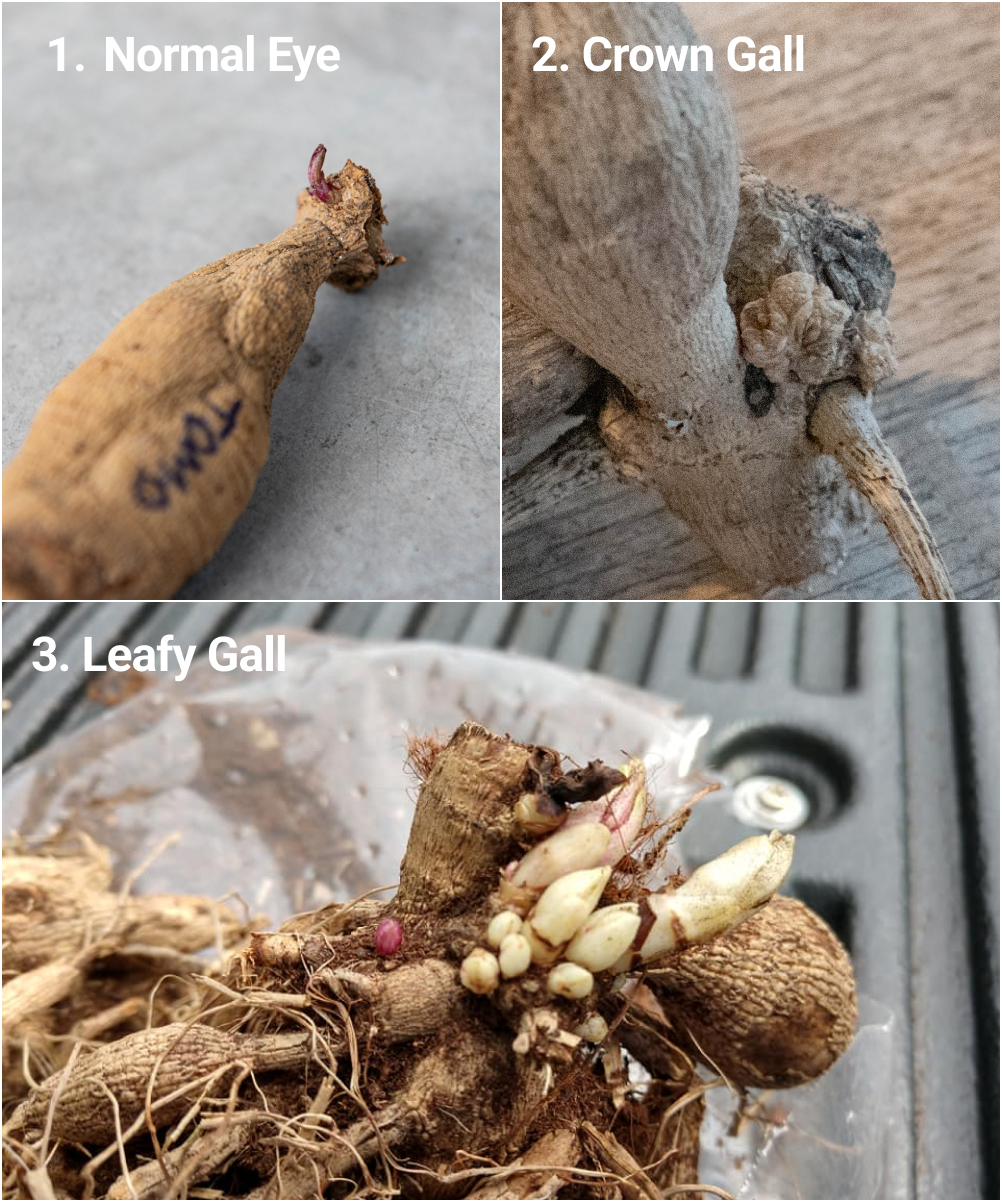
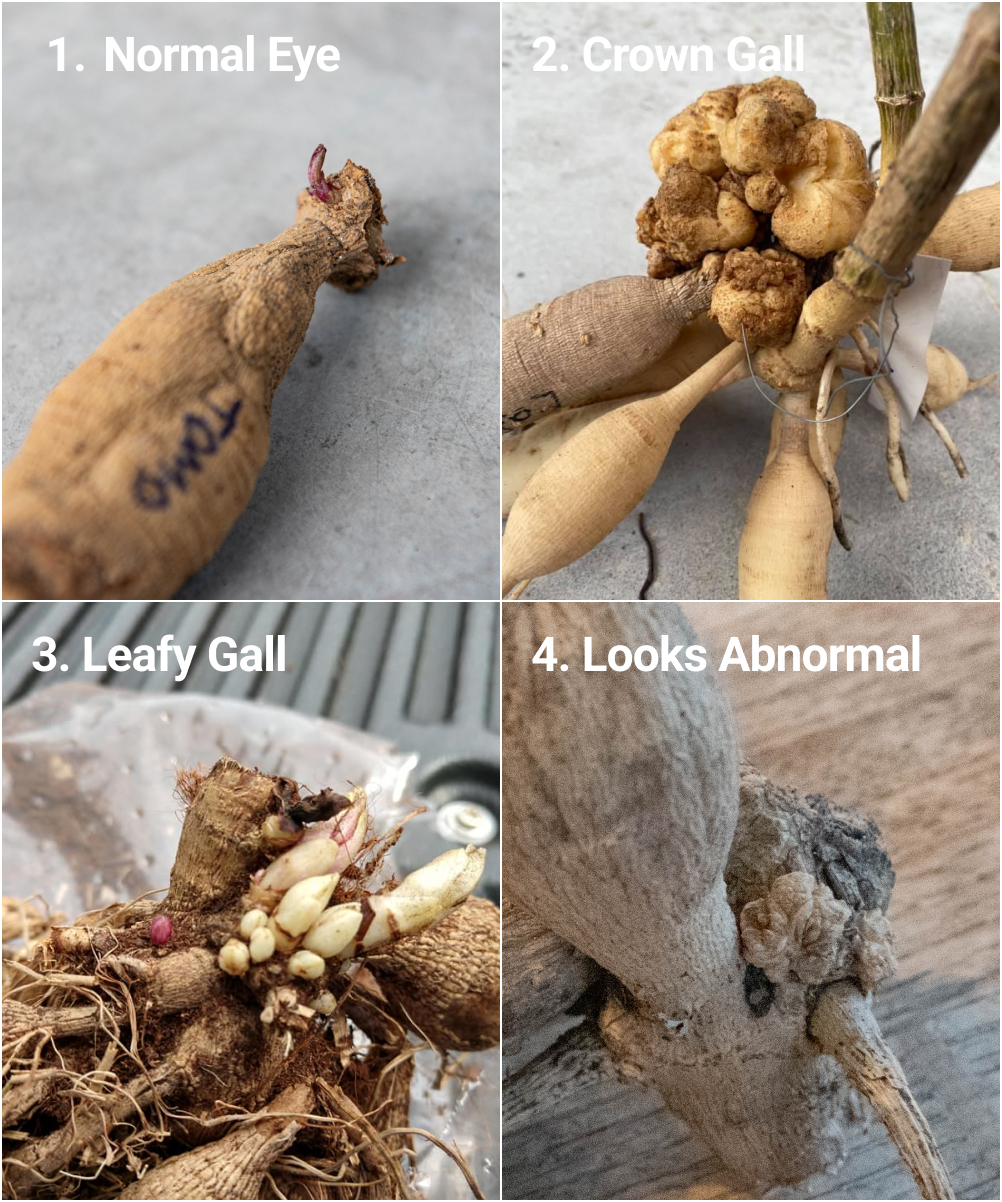
update march newsletter

diff --git a/202203/20220326_newsletter/20220326_newsletter.html b/202203/20220326_newsletter/20220326_newsletter.html
@@ -437,8 +437,10 @@
                                 </li>
                               </ul>
                               <p>
-                                <strong>Location:</strong> Zoom (virtual
-                                meeting)
+                                <strong>Location:</strong> Zoom (<a
+                                  href="https://us06web.zoom.us/j/82376433549?pwd=WU0wZllRakZKK05XZWlpcnFBckNvdz09"
+                                  >Zoom Link</a
+                                >)
                               </p>
                               <p class="event__details">
                                 <strong>Date & Time:</strong> Sunday, April 3rd,
@@ -716,7 +718,7 @@
                                 order ready.
                               </p>
                               <p>
-                                We will be shipping orders out April 2nd.
+                                We will be shipping orders out April 4th.
                                 Shipping fees will be calculated and billed
                                 separately.
                               </p>
@@ -788,13 +790,11 @@
                                       <li>Bloomquist Goldilocks</li>
                                       <li>Bracken Sarah</li>
                                       <li>Brookside Snowball</li>
-                                      <li>Day Dreamer</li>
                                       <li>Golden Scepter</li>
                                       <li>Hapet Granat</li>
                                       <li>Hollyhill Bill M</li>
                                       <li>Hollyhill Golden Boy</li>
                                       <li>Javier G</li>
-                                      <li>Lemon Cheesecake</li>
                                       <li>NTAC Solar Flare</li>
                                       <li>Snoho Les</li>
                                       <li>Tahoma April</li>
@@ -965,7 +965,8 @@
                           <tr>
                             <td>
                               <h4 class="subhead subhead--blue">Dahlia Tip</h4>
-                              <h1>Help! Does My Tuber Have Leafy Gall?</h1>
+                              <h1>Does This Tuber Eye Look Normal?</h1>
+                              <p>By Carol Palmer & Misty Florez</p>
                               <br />
                               <p>
                                 With your tubers beginning to wake up and start
@@ -977,16 +978,19 @@
                                 appears as a tumor-like swelling of variable
                                 size on the roots or stems. Leafy gall appears
                                 as a tight cluster of stunted, thickened buds
-                                and shoots. Tubers with signs of bacterial
-                                growth should be tossed in the trash to avoid
+                                and shoots. Tubers with signs of abnormal growth
+                                should be tossed in the trash to avoid
                                 spreading.
                               </p>
                               <img src="dahlia-gall.jpg" width="100%" />
                               <p>
                                 <small
                                   ><em
-                                    >Photos #1 & #2 by Misty Florez</em
-                                  ></small
+                                    >Photo 1 by: Misty Florez<br />
+                                    Photo 2 by: Dale Santee Creighton<br />
+                                    Photo 3 by: Derek Scuteri<br />
+                                    Photo 4 by: Misty Florez
+                                  </em></small
                                 >
                               </p>
                               <hr class="divider" />
@@ -1108,7 +1112,7 @@
                                 interested in working with Misty & Carol to
                                 chair the Photography Contest please reach out.
                                 We would like to get the planning underway
-                                before the gets into full swing.
+                                before the season gets into full swing.
                               </p>
                             </td>
                           </tr>
@@ -1134,7 +1138,11 @@
                                 <li>Salish Twilight Girl</li>
                                 <li>Westerton Ella Grace</li>
                                 <li>KA’s Khaleesi</li>
-                                <li>Peaches N’ Cream</li>
+                                <li>
+                                  and many more popular varieties from Y.D.S.
+                                  stock will be included. Stay tuned for more
+                                  details.
+                                </li>
                               </ul>
                             </td>
                           </tr>
@@ -1152,13 +1160,17 @@
                                   Dahlias from Down Under with Warren Vigor
                                 </p>
                                 <p>
-                                  <strong>May 6:</strong> Dahlia Hybridizing,
+                                  <strong>May 1:</strong> Dahlia Hybridizing,
                                   Dahlia Sports & Seed Collecting with Y.D.S
-                                  member Andrea Campbell
-                                  <em
-                                    >@ Spence Farm, 41 Wyman Street, Woburn, MA
-                                    (11am-1pm)</em
-                                  >
+                                  member Andrea Campbell and Dahlia Tuber
+                                  Auction & Raffle @ Spence Farm, 41 Wyman
+                                  Street, Woburn, MA (11am-2pm)
+                                </p>
+                                <p>
+                                  <strong>May 15th:</strong> Public Tuber Sale @
+                                  Massachusetts Horticultural Society The
+                                  Gardens at Elm Bank (10:00am - 4:00pm)
+                                  <em>*Volunteers needed</em>
                                 </p>
                                 <p>
                                   <strong>June 26th:</strong> Zoom Meeting -
